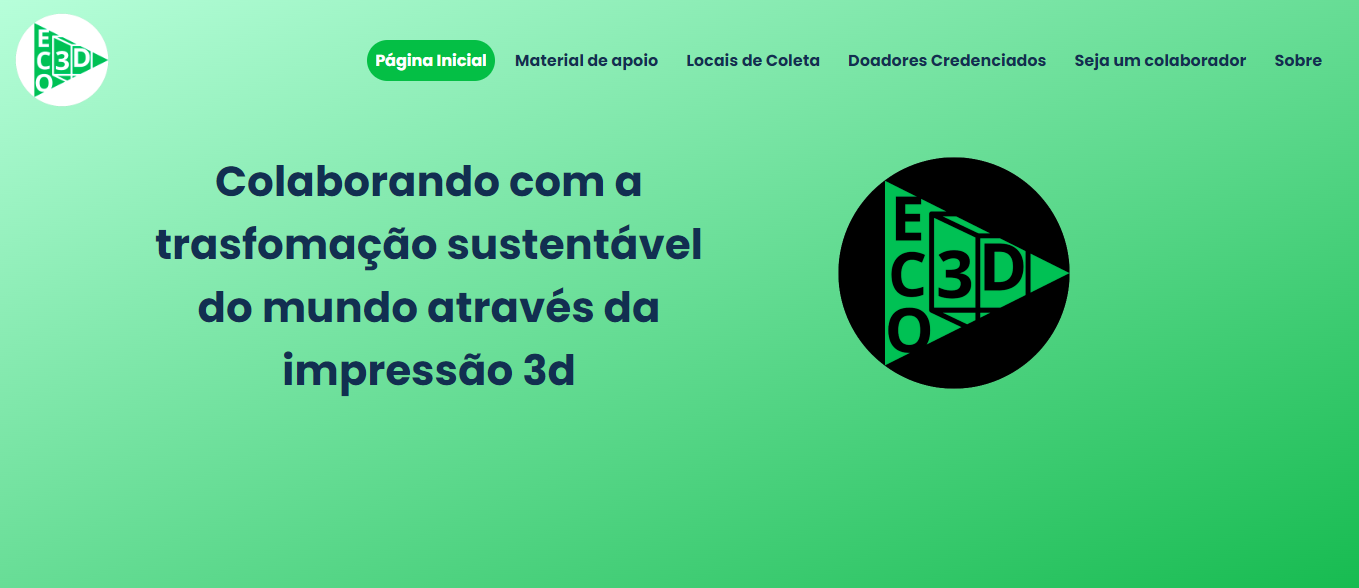
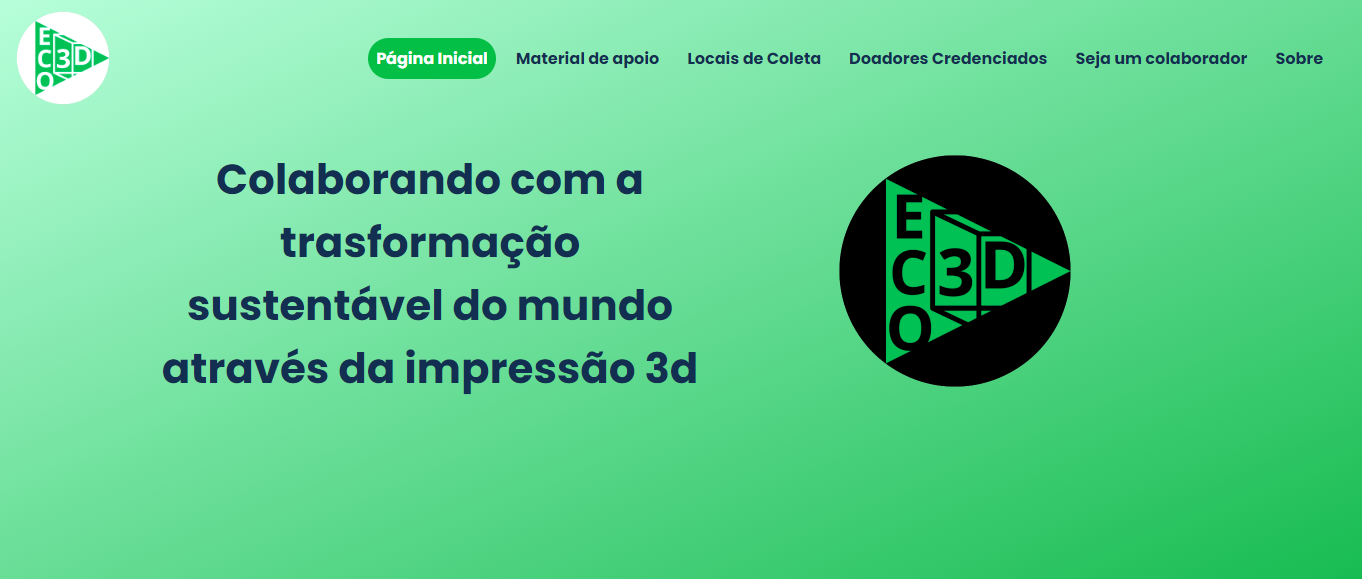
correções ortográficas

diff --git a/index.html b/index.html
@@ -56,7 +56,7 @@
         <main>
             <div class="content-home">
                 <section class="text">
-                    <h1 class="h1-home-page">Colaborando com a trasfomação sustentável do mundo através da impressão 3d
+                    <h1 class="h1-home-page">Colaborando com a trasformação sustentável do mundo através da impressão 3d
                     </h1>
                 </section>
                 <div class="carousel-container">
